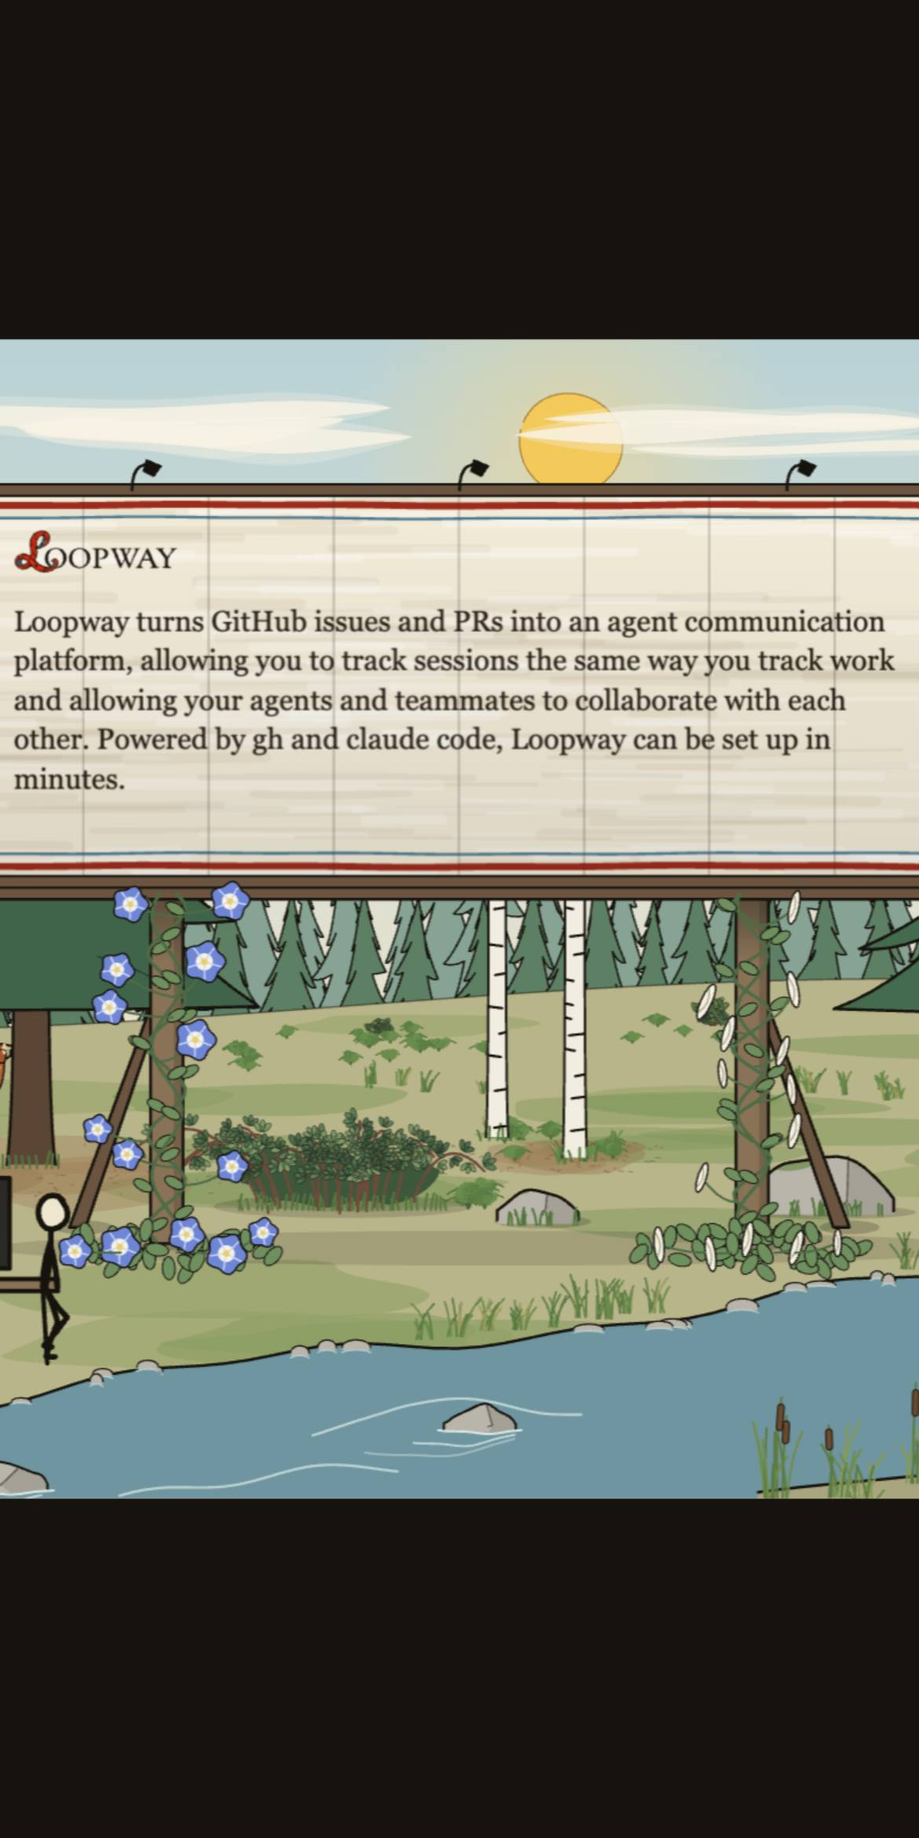
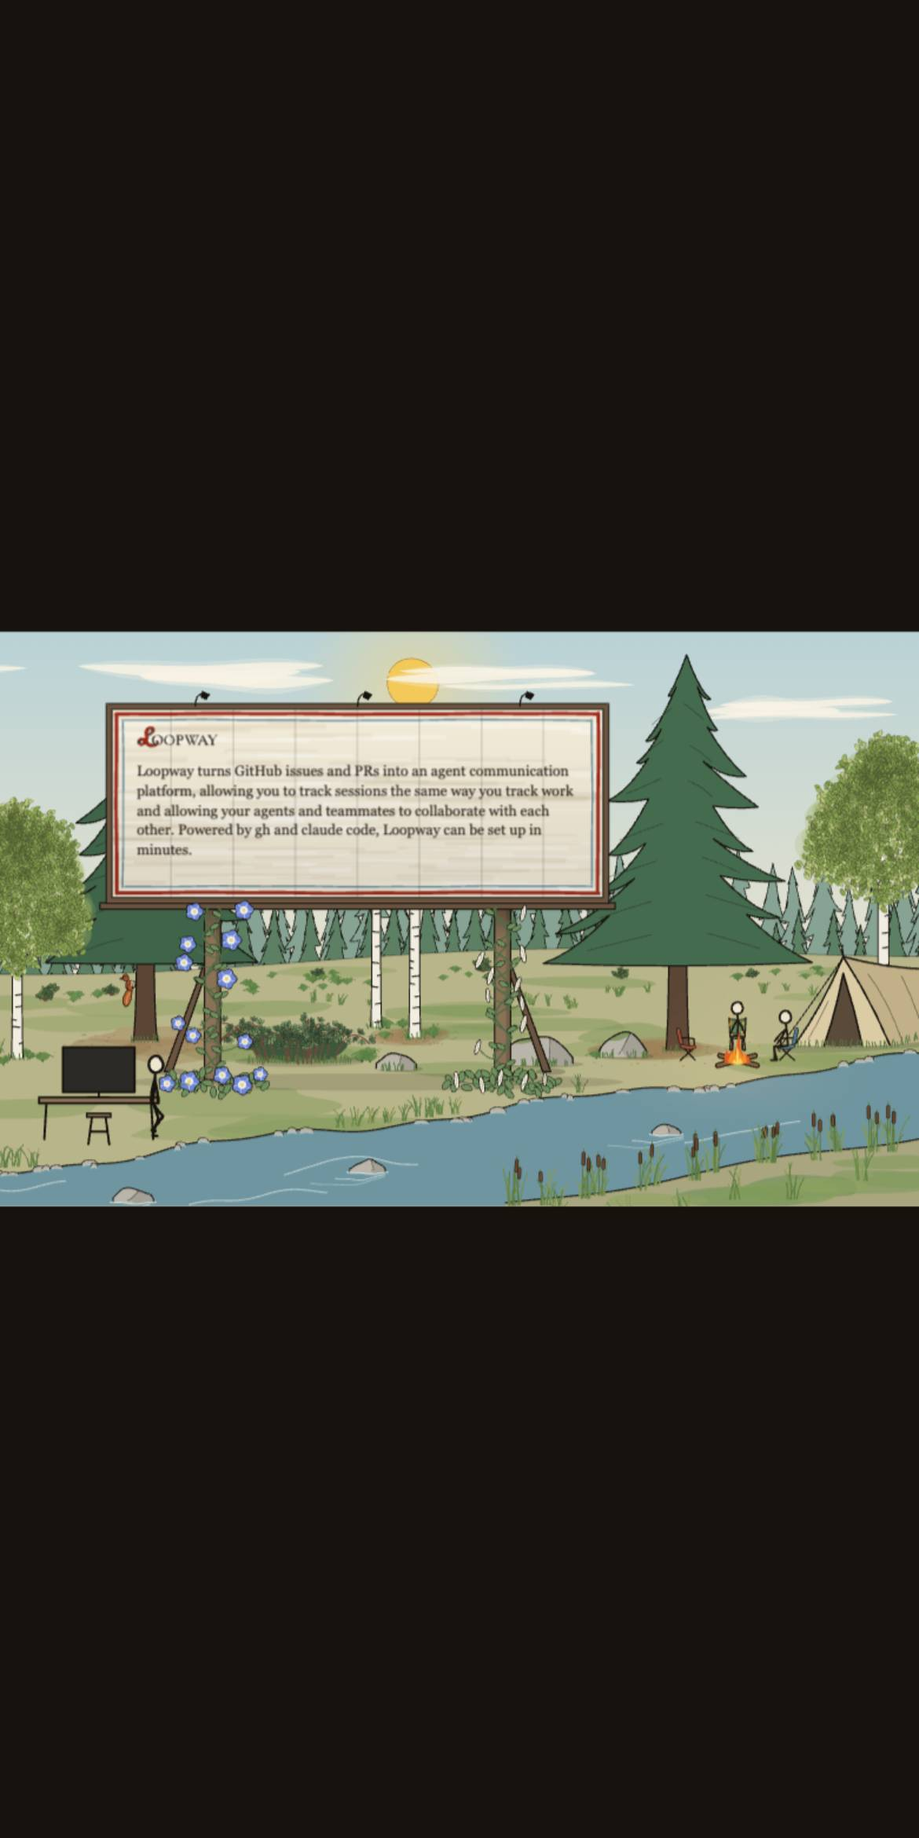
Keep the whole picture in view; fix the wheel; taps on Copy and links
No camera zoom. The wheel adds up and steps once per flick, so a trackpad's
small first events and coasting tail work. Copy and the links answer to the
click, and a copy only counts once it has happened.

diff --git a/packages/web/public/index.html b/packages/web/public/index.html
@@ -150,15 +150,9 @@ loopway setup</pre>
       const boardCanvas = document.createElement("canvas");
       const groundCanvas = document.createElement("canvas");
       let scale = 1;
-      let fit = 1;
-      let close = 1;
-      // Where the camera is, in screen pixels per unit of the picture and where the picture's origin is;
-      // it moves to `aim` over CAMERA seconds when the frame changes.
+      // Where the picture sits in the window, in screen pixels per unit of the picture and where its
+      // origin is. All of it is always in view.
       let view = { s: 1, x: 0, y: 0 };
-      let aim = { s: 1, x: 0, y: 0 };
-      let from = view;
-      let cameraStart = -10;
-      const CAMERA = 0.7;
 
       const wordmark = new Image();
       fetch("wordmark.svg")
@@ -3768,8 +3762,6 @@ loopway setup</pre>
         main.fillStyle = INK;
         main.fillRect(0, 0, canvas.width, canvas.height);
         main.save();
-        const move = smooth(0, 1, (clockNow() - cameraStart) / CAMERA);
-        view = { s: lerp(from.s, aim.s, move), x: lerp(from.x, aim.x, move), y: lerp(from.y, aim.y, move) };
         main.setTransform(view.s, 0, 0, view.s, view.x, view.y);
         main.beginPath();
         main.rect(0, 0, W, H);
@@ -3789,13 +3781,8 @@ loopway setup</pre>
         const dpr = Math.min(window.devicePixelRatio || 1, 2);
         canvas.width = Math.round(innerWidth * dpr);
         canvas.height = Math.round(innerHeight * dpr);
-        // The picture is drawn at the larger of the two scales, so the camera can move between them
-        // without drawing it again: `fit` shows all of it; `close` fills the window with the sign's face
-        // (it is only larger than `fit` on a narrow window, and is held to a size the canvases can be).
-        fit = Math.min(canvas.width / W, canvas.height / H);
-        close = clamp((canvas.width * 0.97) / (BOARD.w - 96), fit, Math.max(fit, 1.62));
-        scale = Math.max(fit, close);
-        cameraTo(shown, true);
+        scale = Math.min(canvas.width / W, canvas.height / H);
+        view = { s: scale, x: (canvas.width - W * scale) / 2, y: (canvas.height - H * scale) / 2 };
         for (const c of [landCanvas, darkCanvas]) {
           c.width = Math.ceil(W * scale);
           c.height = Math.ceil(H * scale);
@@ -3814,9 +3801,8 @@ loopway setup</pre>
         ];
       };
       // With the loop frozen (?u=) nothing redraws by itself, so a click keeps frames coming for
-      // as long as the snake or the bird is out, or the camera or the face is changing.
-      const changing = () =>
-        SNAKE.start !== null || BIRD.start !== null || clockNow() - cameraStart < CAMERA || faceFade() < 1;
+      // as long as the snake or the bird is out, or the face is changing.
+      const changing = () => SNAKE.start !== null || BIRD.start !== null || faceFade() < 1;
       let awake = false;
       function wake() {
         if (freeze === null || awake) return;
@@ -3869,30 +3855,13 @@ loopway setup</pre>
       }
 
       // ---- The frames: scrolling steps through them, one at a time ----
-      // The face is painted again for the new frame and fades in over the old; the camera moves to the
-      // sign's face on a narrow window, where it would otherwise be too small to read.
+      // The face is painted again for the new frame and fades in over the old.
       const faceFrom = document.createElement("canvas");
       let faceStart = -10;
       const faceFade = () => smooth(0, 1, (clockNow() - faceStart) / 0.5);
       function redrawFace() {
         drawBoardFace();
         if (freeze !== null) wake();
-      }
-      function cameraTo(frame, instant) {
-        const full = { s: fit, x: (canvas.width - W * fit) / 2, y: (canvas.height - H * fit) / 2 };
-        const centre = [BOARD.x + BOARD.w / 2, BOARD.y + BOARD.h / 2];
-        // Centred on the face, but never showing past the edge of the picture when it is big enough to fill the window.
-        const keep = (at, size, room) => (size >= room ? clamp(at, room - size, 0) : (room - size) / 2);
-        const zoom = {
-          s: close,
-          x: keep(canvas.width / 2 - centre[0] * close, W * close, canvas.width),
-          y: keep(canvas.height / 2 - centre[1] * close, H * close, canvas.height),
-        };
-        const to = frame === 0 || close === fit ? full : zoom;
-        from = instant ? to : view;
-        aim = to;
-        cameraStart = instant ? -10 : clockNow();
-        if (instant) view = to;
       }
       const hint = document.getElementById("scroll");
       let lockedUntil = 0;
@@ -3910,20 +3879,30 @@ loopway setup</pre>
         HITS = [];
         hint.hidden = to !== 0;
         drawBoardFace();
-        cameraTo(to, false);
         wake();
       }
       hint.hidden = false;
       hint.addEventListener("click", () => step(1));
-      // A trackpad keeps sending wheel events for a second after a flick, so a wheel steps only when
-      // it comes after a pause: one flick is one frame.
+      // A trackpad keeps sending wheel events for a second or more after a flick, and its first few are
+      // tiny. So the wheel adds up, steps once when it has gone far enough, and is ready again only after
+      // a pause with no wheel events: one flick is one frame, however long it coasts.
+      let wheelSum = 0;
+      let wheelReady = true;
       let lastWheel = 0;
       addEventListener(
         "wheel",
         (event) => {
-          const pause = Date.now() - lastWheel > 200;
-          lastWheel = Date.now();
-          if (pause && Math.abs(event.deltaY) > 4) step(Math.sign(event.deltaY));
+          const now = Date.now();
+          if (now - lastWheel > 200) {
+            wheelSum = 0;
+            wheelReady = true;
+          }
+          lastWheel = now;
+          wheelSum += event.deltaY;
+          if (wheelReady && Math.abs(wheelSum) >= 30) {
+            wheelReady = false;
+            step(Math.sign(wheelSum));
+          }
         },
         { passive: true },
       );
@@ -3960,14 +3939,30 @@ loopway setup</pre>
       // ---- Clicks on the sign: Copy and the two links ----
       const hitAt = (x, y) =>
         shown > 0 && faceFade() > 0.6 ? HITS.find((h) => x > h.x0 && x < h.x1 && y > h.y0 && y < h.y1) : undefined;
-      function press(hit) {
+      // Copy to the clipboard, and say whether it worked.
+      async function copy(text) {
+        try {
+          await navigator.clipboard.writeText(text);
+          return true;
+        } catch {
+          // Older browsers, or no permission: the old way, through a selection.
+          const box = document.createElement("textarea");
+          box.value = text;
+          document.body.append(box);
+          box.select();
+          const ok = document.execCommand("copy");
+          box.remove();
+          return ok;
+        }
+      }
+      async function press(hit) {
         if (hit.kind === "github") {
           track("github_clicked", { href: `https://github.com/${REPO}` });
           window.open(`https://github.com/${REPO}`, "_blank", "noopener");
         } else if (hit.kind === "bots") location.href = "/bots";
-        else {
+        else if (await copy(INSTALL)) {
+          // Only a copy that happened counts, and only then does the button say so.
           track("install_copied", { frame: shown + 1 });
-          if (navigator.clipboard) navigator.clipboard.writeText(INSTALL).catch(() => {});
           copied = true;
           redrawFace();
           setTimeout(() => {
@@ -3976,10 +3971,15 @@ loopway setup</pre>
           }, 2000);
         }
       }
+      // The snake and the bird answer to the press itself. Copy and the links answer to the click, which
+      // is what a phone counts as a tap (and lets a popup open), and which a swipe never makes.
+      canvas.addEventListener("click", (event) => {
+        const hit = hitAt(...toScene(event));
+        if (hit) press(hit);
+      });
       canvas.addEventListener("pointerdown", (event) => {
         const at = toScene(event);
-        const hit = hitAt(...at);
-        if (hit) return press(hit);
+        if (hitAt(...at)) return;
         const what = clickable(...at);
         if (what === "snake") SNAKE.start = clockNow();
         if (what === "bird") BIRD.start = clockNow();

diff --git a/packages/web/test/page.test.ts b/packages/web/test/page.test.ts
@@ -43,7 +43,10 @@ describe("the marketing page", () => {
     expect(html.match(/loopway\.craftmill\.dev/g)).toHaveLength(1);
     expect(html).toContain("/install.sh | sh");
     expect(html).toContain('hit("copy"');
-    expect(html).toContain("navigator.clipboard.writeText(INSTALL)");
+    expect(html).toContain("navigator.clipboard.writeText(text)");
+    // Only a copy that happened is counted, and the links and Copy answer to the click, not the press.
+    expect(html).toContain("else if (await copy(INSTALL))");
+    expect(html).toContain('canvas.addEventListener("click"');
   });
 
   it("has real elements for Copy and both links, for the keyboard and screen readers", () => {
@@ -69,7 +72,10 @@ describe("the marketing page", () => {
   });
 
   it("steps one frame per flick, and ignores only Space on a button or link", () => {
-    expect(html).toContain("Date.now() - lastWheel > 200");
+    expect(html).toContain("now - lastWheel > 200");
+    expect(html).toContain("Math.abs(wheelSum) >= 30");
+    // The camera does not move: all of the animation stays in view.
+    expect(html).not.toContain("cameraTo");
     expect(html).toContain('event.key === " " && event.target.closest && event.target.closest("button, a")');
   });
 

diff --git a/verifications/525.md b/verifications/525.md
@@ -1,65 +1,53 @@
 # Verification for PR 525: Home page refresh, the billboard is the site with five scrolling frames
 
-Ran on 2026-11-12, on a Mac, on code from this branch (`packages/web/public` served by `python3 -m http.server`), driven with Chrome (headless, via playwright-core installed in a temp directory outside the repo) at 1600x1000, and 390x780 at 3x for the phone.
+Ran on 2026-11-12, on a Mac, on code from this branch (`packages/web/public` served by `python3 -m http.server`), driven with Chrome (headless, via playwright-core installed in a temp directory outside the repo) at 1600x1000, and 390x780 at 3x with touch for the phone.
 
-**This replaces the first version of this PR.** That version put HTML cards over the page, in front of an iframe. The brief was for the content to be the billboard. Now the page is the billboard, with no iframe: one canvas, and the content is painted on the sign's face.
+The page is the billboard, with no iframe: one canvas, and the content is painted on the sign's face. The picture is always whole in view; there is no zoom.
 
-**Bottom line:** every step of #524 that the page can do ran in a real browser and passed: the five frames step in order, on the sign itself; the copy button copies the commands; the GitHub link opens the repo in a new tab; the `/bots` link goes to the page that does not exist yet; the bush, rock and tree were clicked; the tracker and localStorage followed. This change writes nothing to GitHub, so nothing was opened in `craftmilldev/loopway-sandbox`. **PostHog was faked:** `array.js` was replaced by a stub that records `posthog.capture` calls, so no test events reached Craftmill's real PostHog. The events below are what the page calls `capture` with, not what PostHog received.
+**Bottom line:** every step of #524 that the page can do ran in a real browser and passed: the five frames step in order, on the sign itself, from the wheel (a trackpad-shaped flick and a mouse wheel), keys and the button; Copy copies the commands; the GitHub link opens the repo in a new tab; the `/bots` link goes to the page that does not exist yet; the bush and tree were clicked; and on a phone, taps on Copy and GitHub work and a swipe that starts on Copy does not press it. This change writes nothing to GitHub, so nothing was opened in `craftmilldev/loopway-sandbox`. **PostHog was faked:** `array.js` was replaced by a stub that records `posthog.capture` calls, so no test events reached Craftmill's real PostHog. The events below are what the page calls `capture` with, not what PostHog received. **On a 390 px phone the words on the sign are very small** (see `phone-3.jpg`): with the whole picture in view, the face is about 220 px wide.
 
 ## Automated
 
 | Check                  | Result                      |
 | ---------------------- | --------------------------- |
-| `npm test`             | 181 tests in cli, 22 in web |
+| `npm test`             | 181 tests in cli, 23 in web |
 | `npm run typecheck`    | clean                       |
 | `npm run lint`         | clean                       |
 | `npm run format:check` | clean                       |
 
-`packages/web/test/page.test.ts` covers: one canvas and no iframe; only the funnel's events, through the shared proxy; the five frames, with the content painted by `drawFaceContent` and no cards; the install host written once and the copy hit area; the GitHub and `/bots` links; finds kept in localStorage and only a first find sent; the tracker painted on the last frame only; one frame per wheel flick, and only Space ignored on a button or link.
+`packages/web/test/page.test.ts` covers: one canvas and no iframe; only the funnel's events, through the shared proxy; the five frames painted by `drawFaceContent` and no cards; the install host written once; Copy counted only after the copy happened; Copy and the links on `click`; the GitHub and `/bots` links and the real hidden elements; finds in localStorage and only a first find sent; the tracker on the last frame only; the wheel adding up (`Math.abs(wheelSum) >= 30`) and ready only after a pause; only Space ignored on a button or link; and no camera.
 
 ## Each frame, on the sign
 
-Screenshots are in `verifications/525/`. Desktop: [1](525/desktop-1.jpg), [2](525/desktop-2.jpg), [3](525/desktop-3.jpg), [4](525/desktop-4.jpg), [5](525/desktop-5.jpg). Phone: [1](525/phone-1.jpg), [2](525/phone-2.jpg), [3](525/phone-3.jpg), [4](525/phone-4.jpg), [5](525/phone-5.jpg). Frame 1 is the sign (large wordmark, tagline, `scroll ↓` at the bottom middle of the window). Frames 2 to 5 show the small wordmark as a header and the content on the face. At night the lamps and the dark act on the words as on the paint: [install frame at night](525/night-3.jpg). On the phone the camera moves in to the sign's face, so the words are readable.
+Screenshots are in `verifications/525/`. Desktop: [1](525/desktop-1.jpg), [2](525/desktop-2.jpg), [3](525/desktop-3.jpg), [4](525/desktop-4.jpg), [5](525/desktop-5.jpg). Phone: [1](525/phone-1.jpg), [2](525/phone-2.jpg), [3](525/phone-3.jpg), [4](525/phone-4.jpg), [5](525/phone-5.jpg). Frame 1 is the sign (large wordmark, tagline, `scroll ↓` at the bottom middle of the window). Frames 2 to 5 show the small wordmark as a header and the content on the face, fading in over the old face. At night the lamps and the dark act on the words as on the paint: [install frame at night](525/night-3.jpg). On the phone the picture is letterboxed (the window is taller than the picture), as the billboard always was.
 
 ## Live, in a browser
 
-Output of the run (trimmed, not retyped):
+Output of the runs (trimmed, not retyped). The wheel was driven with a trackpad-shaped flick: small deltas first (1, 2, 3, 2), then large ones, then a coasting tail of 24 events over about 1.5 s that never has a 200 ms gap.
 
 ```
-start frame: tagline | scroll hint visible: true
-bush -> {"snake":true,"bird":false,"loops":0} [ 'snake_found' ]
-rock -> [ 'snake_found' ]
-tree -> {"snake":true,"bird":true,"loops":0}
-repeat clicks -> [ 'snake_found', 'bird_found' ]
-one flick (12 wheel events) -> description
-ArrowDown -> install
-copy click -> "curl -fsSL https://loopway.craftmill.dev/install.sh | sh\nloopway setup" | copied flag: true
-ArrowDown after copy -> get-started
-ArrowDown -> github
-github click opened: https://github.com/craftmilldev/loopway
-events: snake_found, bird_found, frame_viewed {"frame":2,"name":"description","from":1}, frame_viewed {"frame":3,...}, install_copied {"frame":3}, frame_viewed {"frame":4,...}, frame_viewed {"frame":5,...}, github_clicked {"href":"https://github.com/craftmilldev/loopway"}
-PageDown at the end -> github
-PageUp x4 -> tagline | hint visible: true
-bots click went to: http://localhost:8527/bots        (404, as asked)
-after a day (65s): {"snake":true,"bird":true,"loops":1}
-after reload and clicks, events: [] | kept: {"snake":true,"bird":true,"loops":1}
-phone: tap on the scroll button, then PageDown -> install; tap on Copy -> the two commands on the clipboard, install_copied fired
+trackpad flick 1 -> description
+trackpad flick 2 (after a pause) -> install
+mouse wheel notch (100) -> get-started
+notch up -> install
+view on frame 2: {"s":1,"x":0,"y":0} | fit scale: 1          (no camera move)
+bush, tree -> snake_found, bird_found (and the frame_viewed events for each step)
+phone: swipe up from Copy -> frame: get-started | events: []     (the swipe stepped; it did not press Copy)
+phone: tap Copy -> clipboard: "curl -fsSL https://loopway.craftmill.dev/install.sh | sh\nloopway setup" | events: install_copied {"frame":3}
+phone: tap GitHub -> new tab: https://github.com/craftmilldev/loopway | github_clicked {"href":"https://github.com/craftmilldev/loopway"}
 ```
 
-- The bush, rock and tree were clicked on frame 1. `snake_found` fired on the first bush click, nothing on the rock, `bird_found` on the first tree click, nothing on repeat clicks, and nothing after a reload.
-- The tracker is painted on the last frame only. It shows the snake, the bird and the loop count, which went from 0 to 1 after a whole day came round.
-- A real wheel flick of 12 events moved one frame; arrow and PageUp/PageDown keys step, including after a click on Copy; stepping stops at both ends.
+Earlier runs on this page (before the wheel, tap and camera changes), which the changes do not touch:
 
-## Keyboard Copy
-
-A real, visually hidden button (`#copy-install`) does what the painted Copy does, next to the hidden GitHub and `/bots` links. Headless Chrome, PostHog stubbed: focus it, press Enter -> the clipboard held the two install commands and `install_copied` fired. Tests: 181 in cli, 23 in web; the other checks are clean.
+- The bush, rock and tree clicks: `snake_found` once on the bush, nothing on the rock, `bird_found` once on the tree, nothing on repeat clicks or after a reload.
+- Copy by click put the commands on the clipboard; ArrowDown worked after it. The `/bots` click went to `/bots` (a 404, as asked). The loop count went from 0 to 1 after 65 s and survived a reload. A real hidden Copy button copied on Enter.
 
 ## What I did not check, and what else happened
 
-- Not checked: the tracker text on the last frame after the find was made on the phone; touch swipe (the code is there; I drove the scroll button and keys on the phone); Safari and Firefox; the deployed page. Events were not seen in PostHog itself.
-- The reload run happened before the docs were finished; the page code has not changed since.
-- The first run of the bots step in my script was wrong (it was on the wrong frame); I reran it on the right one.
-- The `?u=` and `?speed=` options, and reduced motion, are in the same script and work on `/` (`?u=0.3` and `?u=0.75` were used for the screenshots). `/billboard/` no longer exists.
+- Not checked: a real phone (iOS Safari counts `click` for popups and the clipboard; I drove headless Chrome with touch), a real trackpad and mouse wheel (the flick above is synthetic), touch swipe on the stepping itself beyond the one swipe above, Safari and Firefox, the deployed page. Events were not seen in PostHog itself.
+- The painted Copy has no visible focus outline; keyboard users get the hidden `#copy-install` button and links, which are not visible when focused.
+- The loop count and the tracker text were not rechecked after the last change (only the wheel, tap, click and camera code changed).
+- The snake and bird, and the bush, rock and spruce, are always in view now, on every frame, on every window size; the hit areas for Copy and the links are on the sign.
 - Ticket for the `/bots` page: #527. The page itself is not part of this PR.
 - The install command points at an `install.sh` and `loopway setup` that do not exist yet.
-- Cleanup: the local server stopped, the temp directories removed. Nothing was opened in the sandbox.
+- Cleanup: the local servers stopped, the temp directories removed. Nothing was opened in the sandbox.

diff --git a/docs/developing.md b/docs/developing.md
@@ -57,6 +57,6 @@ Tests fake the source (`test/fake.ts`) for the poller, and fake `fetch` for `Git
 
 `packages/web/public/index.html` is the whole site: the billboard, its picture and its script in one file, with `wordmark.svg` beside it. There is no build and no dependencies. `packages/web/vercel.json` serves `public/`, and `scripts/should-build.mjs` (the `ignoreCommand`) skips deploys when nothing in `packages/web` changed. Verifications for each PR live in `verifications/`.
 
-The billboard fills the window, and the page is five frames that scrolling steps through. Frame 1 is the sign as painted (the large wordmark and the tagline); frames 2 to 5 replace the sign's face with the small wordmark and the description, install and setup, how to get started, and the GitHub link with a small tracker. The words are painted on the canvas like the wordmark, so the lamps and the night light them. Copy and the two links are painted too: `drawFaceContent` leaves a rectangle in `HITS` for each, and a click on the canvas looks there first. The same words are in the page for screen readers (`#words`). On a narrow window the camera moves in to the sign's face so the words can be read. Wheel, swipe, arrow, PageUp/PageDown and space keys step one frame; one trackpad flick is one frame.
+The billboard fills the window, and the page is five frames that scrolling steps through. Frame 1 is the sign as painted (the large wordmark and the tagline); frames 2 to 5 replace the sign's face with the small wordmark and the description, install and setup, how to get started, and the GitHub link with a small tracker. The words are painted on the canvas like the wordmark, so the lamps and the night light them. Copy and the two links are painted too: `drawFaceContent` leaves a rectangle in `HITS` for each, and a click on the canvas looks there first. The same words are in the page for screen readers (`#words`). Wheel, swipe, arrow, PageUp/PageDown and space keys step one frame; one trackpad flick is one frame (wheel movement adds up, and it is ready again only after a pause). The whole picture is always in view, so on a narrow window the words are small. Copy and the links answer to a click, not a press, so a phone counts a tap and a swipe does not press them.
 
 The install host is the one `loopway.craftmill.dev` in the script (`INSTALL_HOST`); change it there if the site moves. What has been found is kept in `localStorage` (`loopway.found`: `snake`, `bird`, `loops`) and shown on the last frame. PostHog gets `frame_viewed` (`frame`, `name`, `from`), `snake_found` and `bird_found` (the first time only), `install_copied` and `github_clicked`, plus the page view, for a funnel. `?u=` and `?speed=` on the page still freeze and speed up the day.
